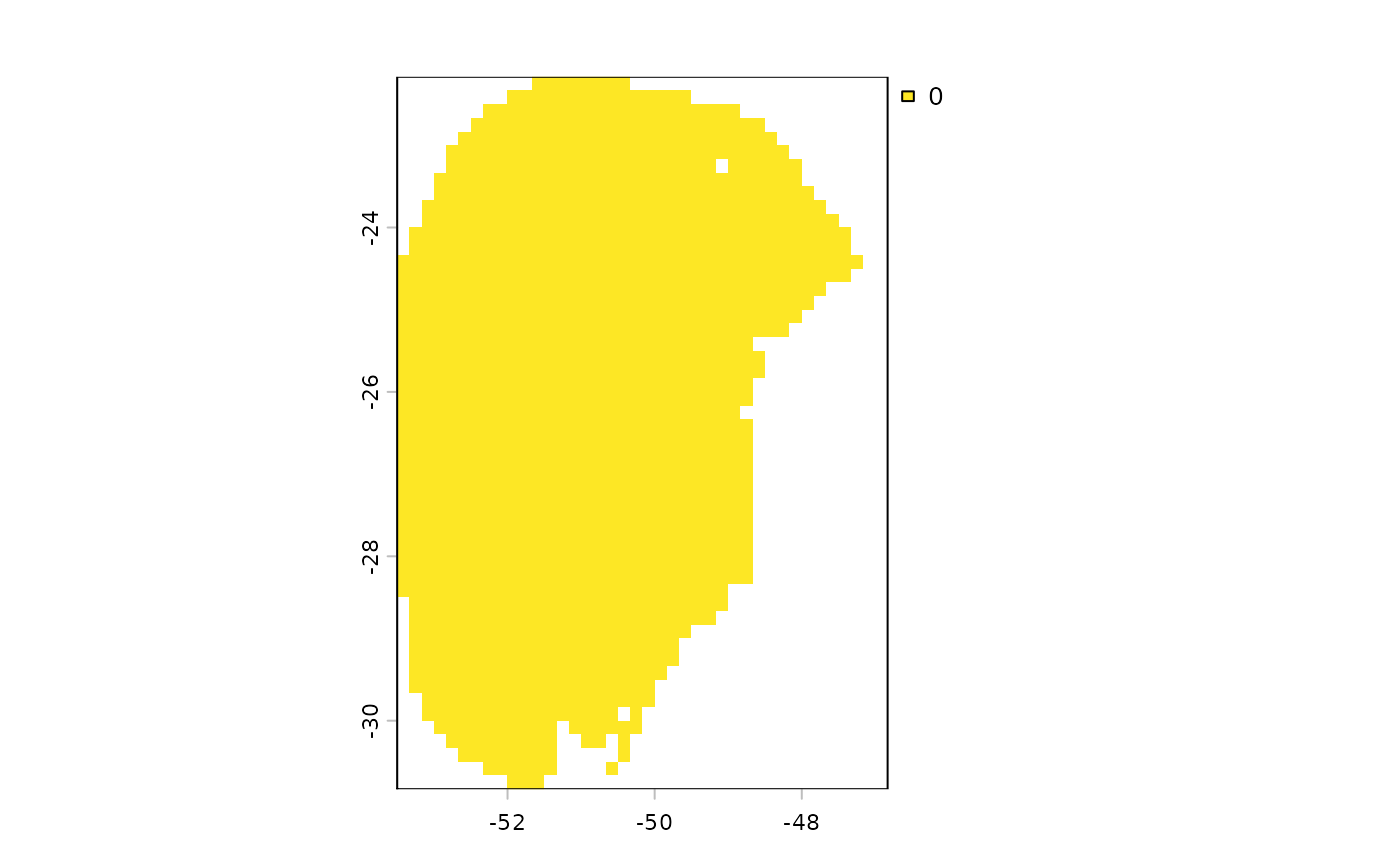
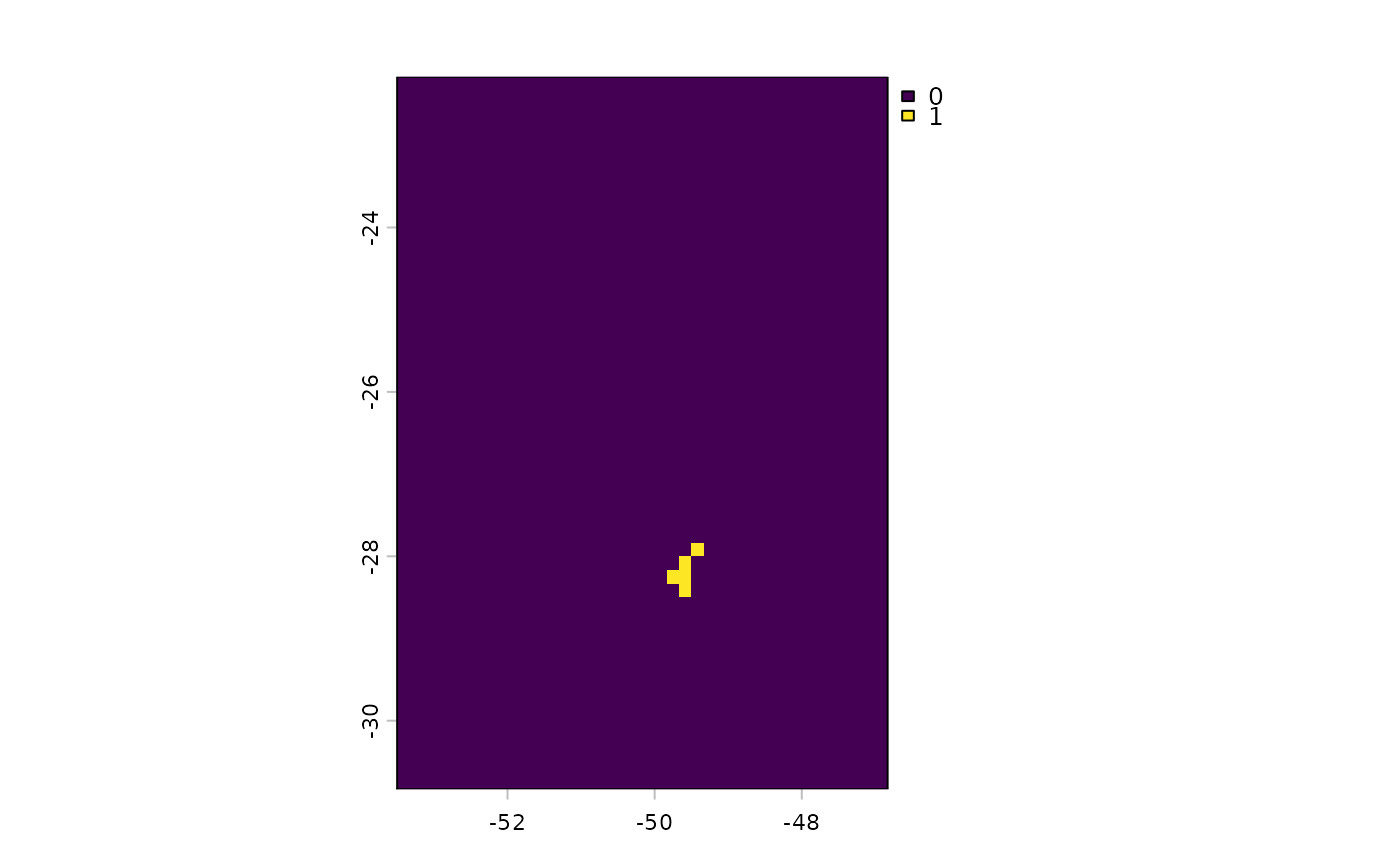
Deploying to gh-pages from @ wevertonbio/kuenm2@f06d22aa3be54dbf822d145b9ccaf413caca2fd2 🚀

Changed region(s): [[0.2764, 0.0624, 0.6757, 0.9353]]

diff --git a/reference/perform_pca.html b/reference/perform_pca.html
@@ -163,18 +163,18 @@ projected raster files for each scenario.</p></li>
 <span class="r-in"><span></span></span>
 <span class="r-in"><span><span class="va">pca_var</span></span></span>
 <span class="r-out co"><span class="r-pr">#&gt;</span> $env</span>
-<span class="r-out co"><span class="r-pr">#&gt;</span> class       : SpatRaster </span>
+<span class="r-out co"><span class="r-pr">#&gt;</span> class       : SpatRaster</span>
 <span class="r-out co"><span class="r-pr">#&gt;</span> size        : 52, 40, 5  (nrow, ncol, nlyr)</span>
 <span class="r-out co"><span class="r-pr">#&gt;</span> resolution  : 0.1666667, 0.1666667  (x, y)</span>
 <span class="r-out co"><span class="r-pr">#&gt;</span> extent      : -53.5, -46.83333, -30.83333, -22.16667  (xmin, xmax, ymin, ymax)</span>
-<span class="r-out co"><span class="r-pr">#&gt;</span> coord. ref. : lon/lat WGS 84 (EPSG:4326) </span>
-<span class="r-out co"><span class="r-pr">#&gt;</span> sources     : memory  (4 layers) </span>
-<span class="r-out co"><span class="r-pr">#&gt;</span>               Current_variables.tif  </span>
-<span class="r-out co"><span class="r-pr">#&gt;</span> varnames    : Current_variables </span>
-<span class="r-out co"><span class="r-pr">#&gt;</span>               Current_variables </span>
-<span class="r-out co"><span class="r-pr">#&gt;</span> names       :       PC1,       PC2,       PC3,       PC4, SoilType </span>
-<span class="r-out co"><span class="r-pr">#&gt;</span> min values  : -3.621362, -2.041276, -3.923471, -1.730859,        1 </span>
-<span class="r-out co"><span class="r-pr">#&gt;</span> max values  :  2.929786,  3.029667,  1.752452,  1.601162,       23 </span>
+<span class="r-out co"><span class="r-pr">#&gt;</span> coord. ref. : lon/lat WGS 84 (EPSG:4326)</span>
+<span class="r-out co"><span class="r-pr">#&gt;</span> sources     : memory (4 layers)</span>
+<span class="r-out co"><span class="r-pr">#&gt;</span>               Current_variables.tif</span>
+<span class="r-out co"><span class="r-pr">#&gt;</span> varnames    : Current_variables</span>
+<span class="r-out co"><span class="r-pr">#&gt;</span>               Current_variables</span>
+<span class="r-out co"><span class="r-pr">#&gt;</span> names       :       PC1,       PC2,       PC3,       PC4, SoilType</span>
+<span class="r-out co"><span class="r-pr">#&gt;</span> min values  : -3.621362, -2.041276, -3.923471, -1.730859,        1</span>
+<span class="r-out co"><span class="r-pr">#&gt;</span> max values  :  2.929786,  3.029667,  1.752452,  1.601162,       23</span>
 <span class="r-out co"><span class="r-pr">#&gt;</span> </span>
 <span class="r-out co"><span class="r-pr">#&gt;</span> $pca</span>
 <span class="r-out co"><span class="r-pr">#&gt;</span> Standard deviations (1, .., p=4):</span>
@@ -212,7 +212,7 @@ projected raster files for each scenario.</p></li>
 <span class="r-out co"><span class="r-pr">#&gt;</span> 
  |                                                                            
  |                                                                      |   0%
  |                                                                            
  |=========                                                             |  12%
  |                                                                            
  |==================                                                    |  25%
  |                                                                            
  |==========================                                            |  38%
  |                                                                            
  |===================================                                   |  50%
  |                                                                            
  |============================================                          |  62%
  |                                                                            
  |====================================================                  |  75%
  |                                                                            
  |=============================================================         |  88%
  |                                                                            
  |======================================================================| 100%</span>
 <span class="r-msg co"><span class="r-pr">#&gt;</span> </span>
 <span class="r-msg co"><span class="r-pr">#&gt;</span> Variables successfully organized in directory:</span>
-<span class="r-msg co"><span class="r-pr">#&gt;</span> /tmp/Rtmp5Ku6Q7/Future_raw1</span>
+<span class="r-msg co"><span class="r-pr">#&gt;</span> /tmp/RtmpkqrTOu/Future_raw1</span>
 <span class="r-in"><span></span></span>
 <span class="r-in"><span><span class="co"># Prepare projections</span></span></span>
 <span class="r-in"><span><span class="va">pr</span> <span class="op">&lt;-</span> <span class="fu"><a href="prepare_projection.html">prepare_projection</a></span><span class="op">(</span>variable_names <span class="op">=</span> <span class="fu"><a href="https://rdrr.io/r/base/c.html" class="external-link">c</a></span><span class="op">(</span><span class="st">"bio_1"</span>, <span class="st">"bio_7"</span>, <span class="st">"bio_12"</span>,</span></span>
@@ -233,7 +233,7 @@ projected raster files for each scenario.</p></li>
 <span class="r-in"><span>                        out_dir <span class="op">=</span> <span class="va">out_dir</span>, center <span class="op">=</span> <span class="cn">TRUE</span>, scale <span class="op">=</span> <span class="cn">TRUE</span><span class="op">)</span></span></span>
 <span class="r-in"><span></span></span>
 <span class="r-in"><span><span class="va">proj_pca</span><span class="op">$</span><span class="va">projection_directory</span>  <span class="co"># Directory with projected PCA-variables</span></span></span>
-<span class="r-out co"><span class="r-pr">#&gt;</span> [1] "/tmp/Rtmp5Ku6Q7/PCA_projections"</span>
+<span class="r-out co"><span class="r-pr">#&gt;</span> [1] "/tmp/RtmpkqrTOu/PCA_projections"</span>
 </code></pre></div>
     </div>
   </main><aside class="col-md-3"><nav id="toc" aria-label="Table of contents"><h2>On this page</h2>

diff --git a/reference/projection_changes.html b/reference/projection_changes.html
@@ -238,7 +238,7 @@ analysis.</p>
 <span class="r-out co"><span class="r-pr">#&gt;</span> 
  |                                                                            
  |                                                                      |   0%
  |                                                                            
  |=========                                                             |  12%
  |                                                                            
  |==================                                                    |  25%
  |                                                                            
  |==========================                                            |  38%
  |                                                                            
  |===================================                                   |  50%
  |                                                                            
  |============================================                          |  62%
  |                                                                            
  |====================================================                  |  75%
  |                                                                            
  |=============================================================         |  88%
  |                                                                            
  |======================================================================| 100%</span>
 <span class="r-msg co"><span class="r-pr">#&gt;</span> </span>
 <span class="r-msg co"><span class="r-pr">#&gt;</span> Variables successfully organized in directory:</span>
-<span class="r-msg co"><span class="r-pr">#&gt;</span> /tmp/Rtmp5Ku6Q7/Future_raw3</span>
+<span class="r-msg co"><span class="r-pr">#&gt;</span> /tmp/RtmpkqrTOu/Future_raw3</span>
 <span class="r-in"><span></span></span>
 <span class="r-in"><span><span class="co"># Step 3: Prepare data to run multiple projections</span></span></span>
 <span class="r-in"><span><span class="co">## An example with maxnet models</span></span></span>
@@ -275,15 +275,15 @@ analysis.</p>
 <span class="r-plt img"><img src="projection_changes-2.png" alt="" width="700" height="433"></span>
 <span class="r-in"><span><span class="va">changes</span><span class="op">$</span><span class="va">Results_by_change</span>  <span class="co"># List of SpatRaster(s) by changes with GCM agreement</span></span></span>
 <span class="r-out co"><span class="r-pr">#&gt;</span> $`Future_2081-2100_ssp585`</span>
-<span class="r-out co"><span class="r-pr">#&gt;</span> class       : SpatRaster </span>
+<span class="r-out co"><span class="r-pr">#&gt;</span> class       : SpatRaster</span>
 <span class="r-out co"><span class="r-pr">#&gt;</span> size        : 52, 40, 3  (nrow, ncol, nlyr)</span>
 <span class="r-out co"><span class="r-pr">#&gt;</span> resolution  : 0.1666667, 0.1666667  (x, y)</span>
 <span class="r-out co"><span class="r-pr">#&gt;</span> extent      : -53.5, -46.83333, -30.83333, -22.16667  (xmin, xmax, ymin, ymax)</span>
-<span class="r-out co"><span class="r-pr">#&gt;</span> coord. ref. : lon/lat WGS 84 (EPSG:4326) </span>
+<span class="r-out co"><span class="r-pr">#&gt;</span> coord. ref. : lon/lat WGS 84 (EPSG:4326)</span>
 <span class="r-out co"><span class="r-pr">#&gt;</span> source(s)   : memory</span>
-<span class="r-out co"><span class="r-pr">#&gt;</span> names       :           Stable unsuitable,           Loss,           Stable suitable </span>
-<span class="r-out co"><span class="r-pr">#&gt;</span> min values  : Stable unsuitable in 0 GCMs, Loss in 0 GCMs, Stable suitable in 0 GCMs </span>
-<span class="r-out co"><span class="r-pr">#&gt;</span> max values  : Stable unsuitable in 2 GCMs, Loss in 2 GCMs, Stable suitable in 2 GCMs </span>
+<span class="r-out co"><span class="r-pr">#&gt;</span> names       :           Stable unsuitable,           Loss,           Stable suitable</span>
+<span class="r-out co"><span class="r-pr">#&gt;</span> min values  : Stable unsuitable in 0 GCMs, Loss in 0 GCMs, Stable suitable in 0 GCMs</span>
+<span class="r-out co"><span class="r-pr">#&gt;</span> max values  : Stable unsuitable in 2 GCMs, Loss in 2 GCMs, Stable suitable in 2 GCMs</span>
 <span class="r-out co"><span class="r-pr">#&gt;</span> </span>
 <span class="r-in"><span><span class="fu">terra</span><span class="fu">::</span><span class="fu"><a href="https://rspatial.github.io/terra/reference/plot.html" class="external-link">plot</a></span><span class="op">(</span><span class="va">changes</span><span class="op">$</span><span class="va">Results_by_change</span><span class="op">$</span><span class="va">`Future_2081-2100_ssp585`</span><span class="op">)</span>  <span class="co"># an example of the previous</span></span></span>
 <span class="r-plt img"><img src="projection_changes-3.png" alt="" width="700" height="433"></span>

diff --git a/articles/model_calibration.html b/articles/model_calibration.html
@@ -555,8 +555,8 @@ the maxnet algorithm:</p>
 <span><span class="co">#&gt; 159 159                        ~bio_1 + bio_7 + I(bio_1^2) + I(bio_7^2) -1</span></span>
 <span><span class="co">#&gt; 189 189 ~bio_1 + bio_7 + bio_12 + I(bio_1^2) + I(bio_7^2) + I(bio_12^2) -1</span></span>
 <span><span class="co">#&gt;     R_multiplier Omission_rate_at_5.mean Mean_AUC_ratio_at_5.mean     AICc</span></span>
-<span><span class="co">#&gt; 159          0.1                  0.0192                 1.483429 622.7677</span></span>
-<span><span class="co">#&gt; 189          0.1                  0.0192                 1.511755 621.9095</span></span>
+<span><span class="co">#&gt; 159          0.1                  0.0192                 1.477653 622.7677</span></span>
+<span><span class="co">#&gt; 189          0.1                  0.0192                 1.510171 621.9095</span></span>
 <span><span class="co">#&gt;     Is_concave</span></span>
 <span><span class="co">#&gt; 159      FALSE</span></span>
 <span><span class="co">#&gt; 189      FALSE</span></span></code></pre></div>
@@ -598,8 +598,8 @@ summaries of the model selection process.</p>
 <span><span class="co">#&gt; 159 159                        ~bio_1 + bio_7 + I(bio_1^2) + I(bio_7^2) -1</span></span>
 <span><span class="co">#&gt; 189 189 ~bio_1 + bio_7 + bio_12 + I(bio_1^2) + I(bio_7^2) + I(bio_12^2) -1</span></span>
 <span><span class="co">#&gt;     R_multiplier Omission_rate_at_5.mean Mean_AUC_ratio_at_5.mean     AICc</span></span>
-<span><span class="co">#&gt; 159          0.1                  0.0192                 1.479586 622.7677</span></span>
-<span><span class="co">#&gt; 189          0.1                  0.0192                 1.513087 621.9095</span></span>
+<span><span class="co">#&gt; 159          0.1                  0.0192                 1.479007 622.7677</span></span>
+<span><span class="co">#&gt; 189          0.1                  0.0192                 1.512595 621.9095</span></span>
 <span><span class="co">#&gt;     Is_concave</span></span>
 <span><span class="co">#&gt; 159      FALSE</span></span>
 <span><span class="co">#&gt; 189      FALSE</span></span></code></pre></div>

diff --git a/articles/model_projections.html b/articles/model_projections.html
@@ -376,7 +376,7 @@ will use it in a later step).</p>
 <span><span class="co">#&gt;   |                                                                              |                                                                      |   0%  |                                                                              |=========                                                             |  12%  |                                                                              |==================                                                    |  25%  |                                                                              |==========================                                            |  38%  |                                                                              |===================================                                   |  50%  |                                                                              |============================================                          |  62%  |                                                                              |====================================================                  |  75%  |                                                                              |=============================================================         |  88%  |                                                                              |======================================================================| 100%</span></span>
 <span><span class="co">#&gt; </span></span>
 <span><span class="co">#&gt; Variables successfully organized in directory:</span></span>
-<span><span class="co">#&gt; /tmp/RtmpjRteBa/Future_raw</span></span>
+<span><span class="co">#&gt; /tmp/Rtmp4rdgLe/Future_raw</span></span>
 <span></span>
 <span><span class="co"># Check files organized</span></span>
 <span><span class="fu"><a href="https://rdrr.io/r/base/list.files.html" class="external-link">dir</a></span><span class="op">(</span><span class="va">out_dir_future</span>, recursive <span class="op">=</span> <span class="cn">TRUE</span><span class="op">)</span></span>
@@ -492,7 +492,7 @@ the variables are stored:</p>
 <span><span class="co">#&gt;   - Scenarios: ssp126 | ssp585 </span></span>
 <span><span class="co">#&gt;   - GCMs: ACCESS-CM2 | MIROC6 </span></span>
 <span><span class="co">#&gt; All variables are located in the following root directory:</span></span>
-<span><span class="co">#&gt; /tmp/RtmpjRteBa</span></span></code></pre></div>
+<span><span class="co">#&gt; /tmp/Rtmp4rdgLe</span></span></code></pre></div>
 <p><br></p>
 <p>If we check the structure of the <code>prepared_projection</code>
 object, we can see it’s a list containing:</p>
@@ -544,7 +544,7 @@ were saved.</p>
 <span><span class="co">#&gt;   - Scenarios:  </span></span>
 <span><span class="co">#&gt;   - GCMs: ACCESS-CM2 | MIROC6 </span></span>
 <span><span class="co">#&gt; All raster files containing the projection results are located in the following root directory:</span></span>
-<span><span class="co">#&gt;  /tmp/RtmpjRteBa/Projection_results/maxnet</span></span></code></pre></div>
+<span><span class="co">#&gt;  /tmp/Rtmp4rdgLe/Projection_results/maxnet</span></span></code></pre></div>
 <p><br></p>
 <p>Note that results were saved hierarchically in nested subfolders,
 each representing a distinct scenario. In the base directory, the

diff --git a/reference/prepare_projection.html b/reference/prepare_projection.html
@@ -198,7 +198,7 @@ be returned. See <code>?stats::prcomp()</code> for details.</p></li>
 <span class="r-out co"><span class="r-pr">#&gt;</span> 
  |                                                                            
  |                                                                      |   0%
  |                                                                            
  |=========                                                             |  12%
  |                                                                            
  |==================                                                    |  25%
  |                                                                            
  |==========================                                            |  38%
  |                                                                            
  |===================================                                   |  50%
  |                                                                            
  |============================================                          |  62%
  |                                                                            
  |====================================================                  |  75%
  |                                                                            
  |=============================================================         |  88%
  |                                                                            
  |======================================================================| 100%</span>
 <span class="r-msg co"><span class="r-pr">#&gt;</span> </span>
 <span class="r-msg co"><span class="r-pr">#&gt;</span> Variables successfully organized in directory:</span>
-<span class="r-msg co"><span class="r-pr">#&gt;</span> /tmp/Rtmp5Ku6Q7/Future_raw</span>
+<span class="r-msg co"><span class="r-pr">#&gt;</span> /tmp/RtmpkqrTOu/Future_raw</span>
 <span class="r-in"><span></span></span>
 <span class="r-in"><span><span class="co"># Prepare projections using fitted models to check variables</span></span></span>
 <span class="r-in"><span><span class="va">pr</span> <span class="op">&lt;-</span> <span class="fu">prepare_projection</span><span class="op">(</span>models <span class="op">=</span> <span class="va">fitted_model_maxnet</span>,</span></span>
@@ -222,7 +222,7 @@ be returned. See <code>?stats::prcomp()</code> for details.</p></li>
 <span class="r-out co"><span class="r-pr">#&gt;</span>   - Scenarios: ssp126 | ssp585 </span>
 <span class="r-out co"><span class="r-pr">#&gt;</span>   - GCMs: ACCESS-CM2 | MIROC6 </span>
 <span class="r-out co"><span class="r-pr">#&gt;</span> All variables are located in the following root directory:</span>
-<span class="r-out co"><span class="r-pr">#&gt;</span> /tmp/Rtmp5Ku6Q7</span>
+<span class="r-out co"><span class="r-pr">#&gt;</span> /tmp/RtmpkqrTOu</span>
 <span class="r-in"><span></span></span>
 <span class="r-in"><span><span class="co"># Prepare projections using variables names</span></span></span>
 <span class="r-in"><span><span class="va">pr_b</span> <span class="op">&lt;-</span> <span class="fu">prepare_projection</span><span class="op">(</span>models <span class="op">=</span> <span class="cn">NULL</span>,</span></span>
@@ -247,7 +247,7 @@ be returned. See <code>?stats::prcomp()</code> for details.</p></li>
 <span class="r-out co"><span class="r-pr">#&gt;</span>   - Scenarios: ssp126 | ssp585 </span>
 <span class="r-out co"><span class="r-pr">#&gt;</span>   - GCMs: ACCESS-CM2 | MIROC6 </span>
 <span class="r-out co"><span class="r-pr">#&gt;</span> All variables are located in the following root directory:</span>
-<span class="r-out co"><span class="r-pr">#&gt;</span> /tmp/Rtmp5Ku6Q7</span>
+<span class="r-out co"><span class="r-pr">#&gt;</span> /tmp/RtmpkqrTOu</span>
 </code></pre></div>
     </div>
   </main><aside class="col-md-3"><nav id="toc" aria-label="Table of contents"><h2>On this page</h2>

diff --git a/reference/import_results.html b/reference/import_results.html
@@ -171,7 +171,7 @@ containing the computed variability.</p></li>
     <h2 id="ref-examples">Examples<a class="anchor" aria-label="anchor" href="#ref-examples"></a></h2>
     <div class="sourceCode"><pre class="sourceCode r"><code><span class="r-in"><span><span class="co"># Load packages</span></span></span>
 <span class="r-in"><span><span class="kw"><a href="https://rdrr.io/r/base/library.html" class="external-link">library</a></span><span class="op">(</span><span class="va"><a href="https://rspatial.org/" class="external-link">terra</a></span><span class="op">)</span></span></span>
-<span class="r-msg co"><span class="r-pr">#&gt;</span> terra 1.9.11</span>
+<span class="r-msg co"><span class="r-pr">#&gt;</span> terra 1.9.25</span>
 <span class="r-in"><span><span class="co"># Step 1: Organize variables for current projection</span></span></span>
 <span class="r-in"><span><span class="co">## Import current variables (used to fit models)</span></span></span>
 <span class="r-in"><span><span class="va">var</span> <span class="op">&lt;-</span> <span class="fu">terra</span><span class="fu">::</span><span class="fu"><a href="https://rspatial.github.io/terra/reference/rast.html" class="external-link">rast</a></span><span class="op">(</span><span class="fu"><a href="https://rdrr.io/r/base/system.file.html" class="external-link">system.file</a></span><span class="op">(</span><span class="st">"extdata"</span>, <span class="st">"Current_variables.tif"</span>,</span></span>
@@ -199,7 +199,7 @@ containing the computed variability.</p></li>
 <span class="r-out co"><span class="r-pr">#&gt;</span> 
  |                                                                            
  |                                                                      |   0%
  |                                                                            
  |=========                                                             |  12%
  |                                                                            
  |==================                                                    |  25%
  |                                                                            
  |==========================                                            |  38%
  |                                                                            
  |===================================                                   |  50%
  |                                                                            
  |============================================                          |  62%
  |                                                                            
  |====================================================                  |  75%
  |                                                                            
  |=============================================================         |  88%
  |                                                                            
  |======================================================================| 100%</span>
 <span class="r-msg co"><span class="r-pr">#&gt;</span> </span>
 <span class="r-msg co"><span class="r-pr">#&gt;</span> Variables successfully organized in directory:</span>
-<span class="r-msg co"><span class="r-pr">#&gt;</span> /tmp/Rtmp5Ku6Q7/Future_raw2</span>
+<span class="r-msg co"><span class="r-pr">#&gt;</span> /tmp/RtmpkqrTOu/Future_raw2</span>
 <span class="r-in"><span></span></span>
 <span class="r-in"><span><span class="co"># Step 3: Prepare data to run multiple projections</span></span></span>
 <span class="r-in"><span><span class="co">## An example with maxnet models</span></span></span>

diff --git a/articles/projections_chelsa.html b/articles/projections_chelsa.html
@@ -536,7 +536,7 @@ to the variables of each scenario:</p>
 <span>                        overwrite <span class="op">=</span> <span class="cn">TRUE</span><span class="op">)</span></span>
 <span><span class="co">#&gt; </span></span>
 <span><span class="co">#&gt; Variables successfully organized in directory:</span></span>
-<span><span class="co">#&gt; /tmp/RtmpekGjl8/Projection_variables</span></span></code></pre></div>
+<span><span class="co">#&gt; /tmp/RtmpvhklcC/Projection_variables</span></span></code></pre></div>
 <p><br></p>
 <p>We can check the files structured hierarchically in nested folders
 using the <code><a href="https://fs.r-lib.org/reference/dir_tree.html" class="external-link">dir_tree()</a></code> function from the <code>fs</code>

diff --git a/articles/variability_and_uncertainty.html b/articles/variability_and_uncertainty.html
@@ -201,7 +201,7 @@ Scenarios”</a>.</p>
 <span>                          progress_bar <span class="op">=</span> <span class="cn">FALSE</span>, overwrite <span class="op">=</span> <span class="cn">TRUE</span><span class="op">)</span></span>
 <span><span class="co">#&gt; </span></span>
 <span><span class="co">#&gt; Variables successfully organized in directory:</span></span>
-<span><span class="co">#&gt; /tmp/RtmpSTTt80/Future_raw</span></span>
+<span><span class="co">#&gt; /tmp/RtmpMa9nl3/Future_raw</span></span>
 <span></span>
 <span><span class="co"># Create a "Current_raw" folder in a temporary directory</span></span>
 <span><span class="co"># and copy the rawvariables there.</span></span>

diff --git a/reference/binarize_changes.html b/reference/binarize_changes.html
@@ -149,7 +149,7 @@ classification in the future, whether suitable or unsuitable.</p></li>
 <span class="r-out co"><span class="r-pr">#&gt;</span> 
  |                                                                            
  |                                                                      |   0%
  |                                                                            
  |=========                                                             |  12%
  |                                                                            
  |==================                                                    |  25%
  |                                                                            
  |==========================                                            |  38%
  |                                                                            
  |===================================                                   |  50%
  |                                                                            
  |============================================                          |  62%
  |                                                                            
  |====================================================                  |  75%
  |                                                                            
  |=============================================================         |  88%
  |                                                                            
  |======================================================================| 100%</span>
 <span class="r-msg co"><span class="r-pr">#&gt;</span> </span>
 <span class="r-msg co"><span class="r-pr">#&gt;</span> Variables successfully organized in directory:</span>
-<span class="r-msg co"><span class="r-pr">#&gt;</span> /tmp/Rtmp5Ku6Q7/Future_raw_bin</span>
+<span class="r-msg co"><span class="r-pr">#&gt;</span> /tmp/RtmpkqrTOu/Future_raw_bin</span>
 <span class="r-in"><span></span></span>
 <span class="r-in"><span><span class="co"># Step 3: Prepare data to run multiple projections</span></span></span>
 <span class="r-in"><span><span class="co">## An example with maxnet models</span></span></span>

diff --git a/reference/colors_for_changes.html b/reference/colors_for_changes.html
@@ -148,7 +148,7 @@ visualizing the data with <code><a href="https://rdrr.io/r/graphics/plot.default
 <span class="r-out co"><span class="r-pr">#&gt;</span> 
  |                                                                            
  |                                                                      |   0%
  |                                                                            
  |=========                                                             |  12%
  |                                                                            
  |==================                                                    |  25%
  |                                                                            
  |==========================                                            |  38%
  |                                                                            
  |===================================                                   |  50%
  |                                                                            
  |============================================                          |  62%
  |                                                                            
  |====================================================                  |  75%
  |                                                                            
  |=============================================================         |  88%
  |                                                                            
  |======================================================================| 100%</span>
 <span class="r-msg co"><span class="r-pr">#&gt;</span> </span>
 <span class="r-msg co"><span class="r-pr">#&gt;</span> Variables successfully organized in directory:</span>
-<span class="r-msg co"><span class="r-pr">#&gt;</span> /tmp/Rtmp5Ku6Q7/Future_raw_color_example</span>
+<span class="r-msg co"><span class="r-pr">#&gt;</span> /tmp/RtmpkqrTOu/Future_raw_color_example</span>
 <span class="r-in"><span></span></span>
 <span class="r-in"><span><span class="co"># Step 3: Prepare data to run multiple projections</span></span></span>
 <span class="r-in"><span><span class="co">## An example with maxnet models</span></span></span>

diff --git a/reference/glmnet_mx.html b/reference/glmnet_mx.html
@@ -103,7 +103,7 @@ and 100 for background points.</p></dd>
 
 
 <dt id="arg--">...<a class="anchor" aria-label="anchor" href="#arg--"></a></dt>
-<dd><p>Additional arguments to pass to <code><a href="https://glmnet.stanford.edu/reference/glmnet.html" class="external-link">glmnet</a></code>.</p></dd>
+<dd><p>Additional arguments to pass to <code><a href="https://rdrr.io/pkg/glmnet/man/glmnet.html" class="external-link">glmnet</a></code>.</p></dd>
 
 </dl></div>
     <div class="section level2">

diff --git a/reference/organize_for_projection.html b/reference/organize_for_projection.html
@@ -242,7 +242,7 @@ obtain the full file paths required by the function.</p>
 <span class="r-in"><span>                        overwrite <span class="op">=</span> <span class="cn">TRUE</span><span class="op">)</span></span></span>
 <span class="r-msg co"><span class="r-pr">#&gt;</span> </span>
 <span class="r-msg co"><span class="r-pr">#&gt;</span> Variables successfully organized in directory:</span>
-<span class="r-msg co"><span class="r-pr">#&gt;</span> /tmp/Rtmp5Ku6Q7/Projection_variables</span>
+<span class="r-msg co"><span class="r-pr">#&gt;</span> /tmp/RtmpkqrTOu/Projection_variables</span>
 </code></pre></div>
     </div>
   </main><aside class="col-md-3"><nav id="toc" aria-label="Table of contents"><h2>On this page</h2>